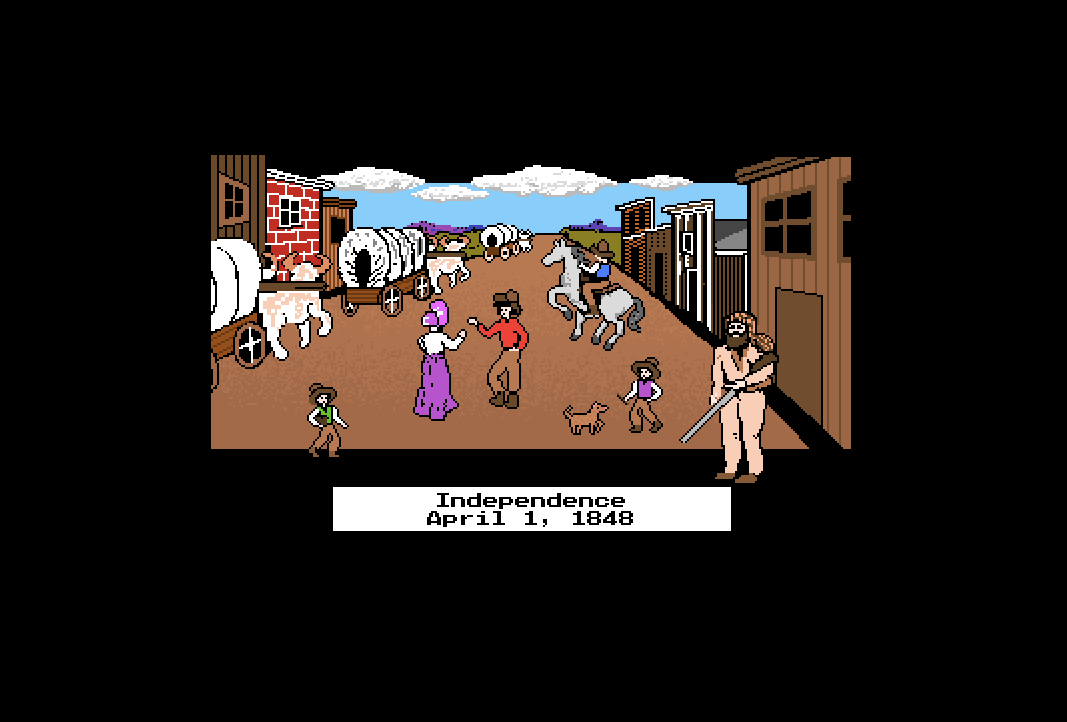
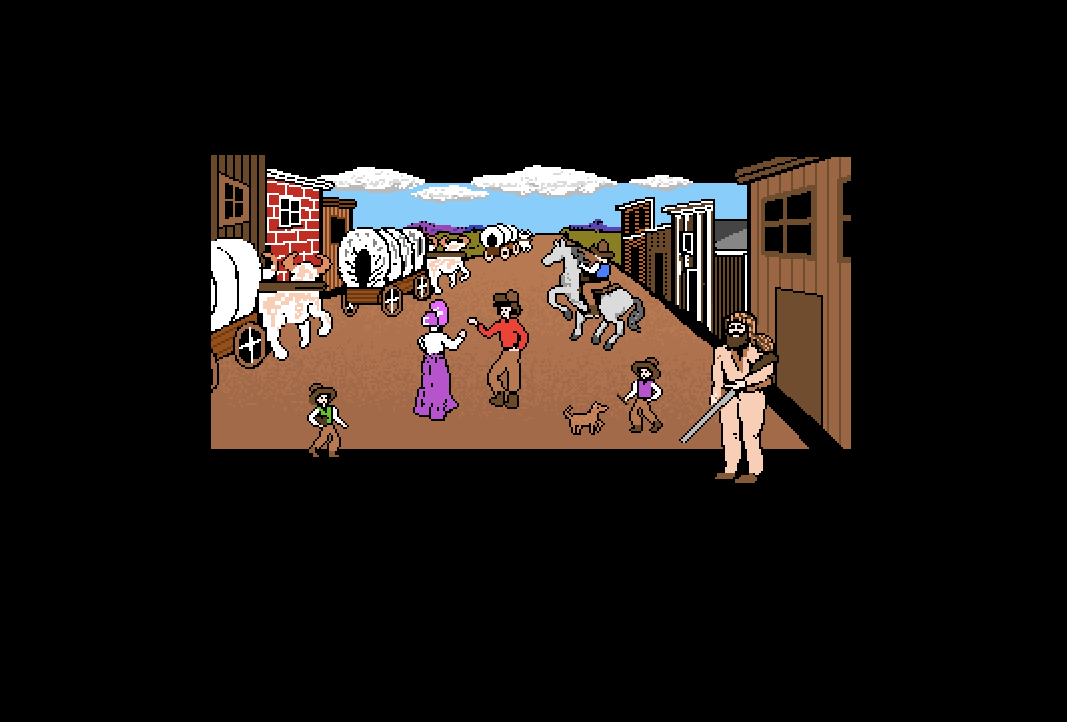
Added Independence town framework and layout

Changed region(s): [[0.3093, 0.6704, 0.7113, 0.7618]]

diff --git a/main.html b/main.html
@@ -92,7 +92,8 @@
 					<span style="font-size:2vw;" id="currentMoney">Current Money: notset</span>
 				</span>
 			</center>
-
+			
+	<!-- Menu for Buying Oxen from General Store-->
 			<center>
 				<span id="wrapper_OxenShop">
 				<p style="font-size:2vw; margin-left:22vw; margin-top:1px; margin-bottom:0vw;"><br><br> Matt's General Store <br>Indepenece, Missouri</p>
@@ -104,7 +105,8 @@
 					<span style="font-size:2vw;" id="currentMoney_1">Current Money: notset</span>
 				</span>
 			</center>
-
+			
+	<!-- Menu for Buying Food from General Store-->
 			<center>
 				<span id="wrapper_FoodShop">
 				<p style=" font-size:2vw; margin-left:19vw; margin-bottom:0vw; margin-top:1px; "><br><br> Matt's General Store <br>Indepenece, Missouri <br> </p> 
@@ -118,7 +120,8 @@
 					
 				</span>
 			</center>
-
+			
+	<!-- Menu for Buying Clothes from General Store-->
 			<center>
 				<span id="wrapper_ClothesShop">
 				<p style="font-size:2vw; margin-left:22vw; margin-top:1px; margin-bottom:0vw;"><br><br> Matt's General Store <br>Indepenece, Missouri</p>
@@ -131,6 +134,7 @@
 				</span>
 			</center>
 
+	<!-- Menu for Buying Ammo from General Store-->
 			<center>
 				<span id="wrapper_AmmoShop">
 				<p style="font-size:2vw; margin-left:22vw; margin-top:1px; margin-bottom:0vw;"><br><br> Matt's General Store <br>Indepenece, Missouri</p>
@@ -142,7 +146,8 @@
 					<span style="font-size:2vw;" id="currentMoney_4">Current Money: notset</span>
 				</span>
 			</center>
-
+			
+	<!-- Menu for Buying Spare Parts from General Store-->
 			<center>
 				<span id="wrapper_SpareShop">
 				<p style="font-size:2vw; margin-left:35vw; margin-top:1px; margin-bottom:0vw;"><br><br> Matt's General Store <br>Indepenece, Missouri</p>
@@ -158,18 +163,24 @@
 					<span style="font-size:2vw;" id="currentMoney_5">Current Money: notset</span>
 				</span>
 			</center>
-			
+		
+	<!-- Menu for showing town image before acutally going into town-->		
 			<center>
 				<span id="wrapper_goToTown">
-					<center><button class="MenuOption" id="button_startTown"style="margin-top:45vh;" onclick=""> Enter The Town</button> </center>
+					<center><button class="MenuOption" id="button_startTown"style="margin-top:45vh; height:10vh; width:15vw;"  onclick="goTown1()"> ADD THE CURRENT DATE HERE <br> Enter The Town</button> </center>
 				</span>
 			</center>
 			
-
+	<!-- Menu for Indepence Town? -Potentialy for ALL towns-->			
+		<center>
+				<span id="wrapper_townMenu">
+					<!-- Add your menu here--> 
+				</span>	
+		</center>
+				
+	
+	
 		</div>
-
-
-
 	</div>
 	</body>
 </html>

diff --git a/oregongame.js b/oregongame.js
@@ -287,11 +287,7 @@ function spareparts_purchase(){
 		theGame[0].axles = Number(numOfAxles);
 		theGame[0].tongues = Number(numOfTongues);
 		theGame[0].money -= sparepartPrice;
-
-		window.alert("Congradulations, you bought " + theGame[0].wheels + " wheels, " + theGame[0].axles + " axles, " + theGame[0].tongues + " tongues.");
-
 		window.alert= ("Congradulations, you bought" + theGame[0].wheels + "wheels," + theGame[0].axles + "axles," + theGame[0].tongues + "tongues.");
-
 		mattsbill += sparepartPrice;
 		openShop_Matt();
 	}
@@ -306,6 +302,9 @@ document.getElementById("GameBox").style.backgroundImage = 'url(Images/Independe
 
 function goTown1(){
 // This is where the logic goes for going from just a picture to the twon menu
+document.getElementById("wrapper_goToTown").style.display = "none";
+document.getElementById("wrapper_townMenu").style.display="block";
+document.getElementById("GameBox").style.backgroundImage = 'url(Images/IndependenceTown2.jpg)';
 }
 
 /********************************************** Main Menu Functions *********************************************/
@@ -380,3 +379,4 @@ function learnTheTrail(){
 	}
 }
 /********************************************** jQuery Functions *********************************************/
+

diff --git a/oregon.css b/oregon.css
@@ -150,3 +150,11 @@ body
 	#wrapper_goToTown{
 	display: none;
 	}
+	#wrapper_townMenu{
+	display: none;
+	width:35vw;
+	height: 65vh;
+	background-size: 100% 100%;
+	font-family:  'Just Another Hand', Helvetica, sans-serif;
+	background-image: url(Images/openBook.png);
+	}
